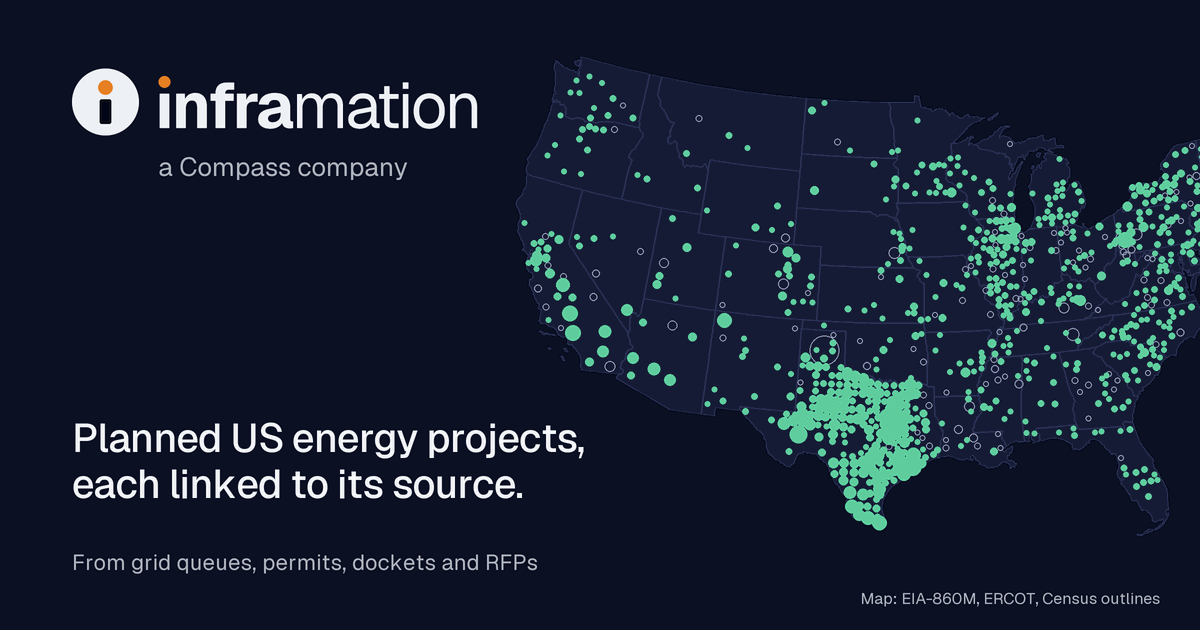
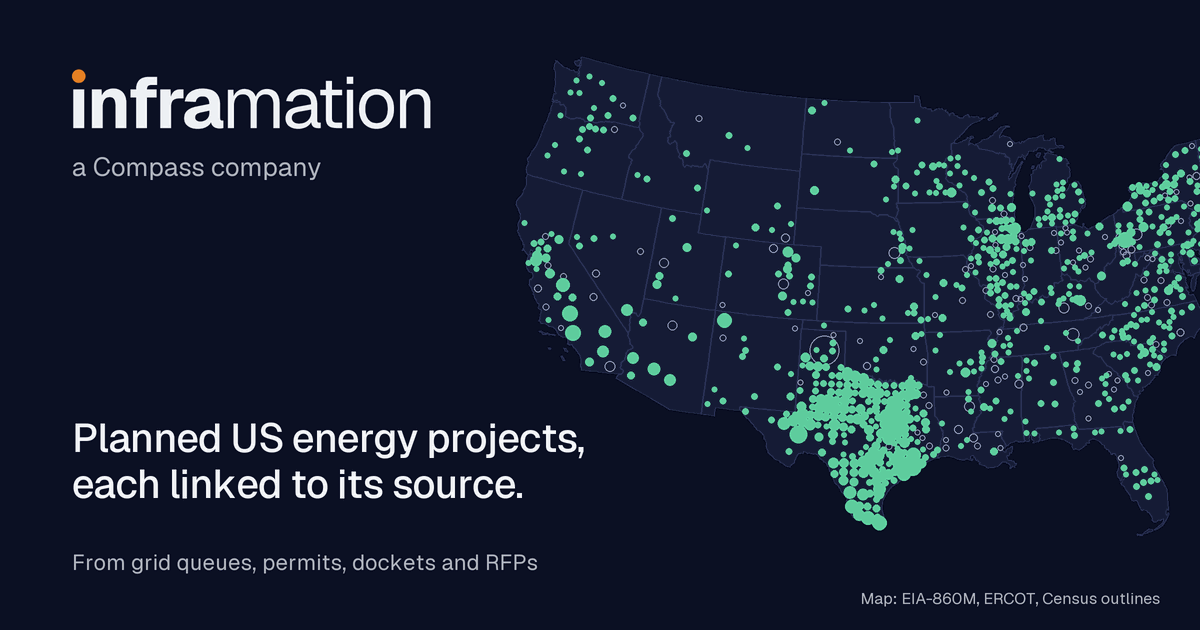
Brand: the circled-i mark is never beside the wordmark; the share card shows the wordmark alone
Owner: "make sure the circle I isn't next to the regular spelled out logo". The share card was
the one place that paired them; it now draws the wordmark alone, a little larger. docs/31 §5.1
and §5.4 state the rule, and web/test_og_card.py holds it: one orange dot on the whole card, and
the card's lockup draws no mark.

Claude-Session: https://claude.ai/code/session_01P1AoPFvzP8uUywKvt69JM9

Changed region(s): [[0.0617, 0.0905, 0.4008, 0.2111], [0.0617, 0.2413, 0.3392, 0.3016]]

diff --git a/web/og_card.py b/web/og_card.py
@@ -21,10 +21,10 @@ The mark (§5.1) is the information sign on a 16-unit grid: a circle of radius 8
 from y 7.35 to 13.25 with corner radius 0.5, and the orange dot at (8, 4.55), radius 1.75. On light the
 circle is navy and the stem white; on dark the circle is `#eef1f5` and the stem `#0e0f11`.
 
-The card is a navy field (a read surface, where Compass's navy may be a ground): the mark beside the
-wordmark, the endorsement, one line saying what the site is, where its records come from, and the national
-map of planned projects in the evergreen tint over faint state lines. It carries no live figure, because a
-cached card would show a stale number; the page's description carries them. Every text colour is at least
+The card is a navy field (a read surface, where Compass's navy may be a ground): the wordmark alone (the mark
+is never beside it), the endorsement, one line saying what the site is, where its records come from, and the
+national map of planned projects in the evergreen tint over faint state lines. It carries no live figure,
+because a cached card would show a stale number; the page's description carries them. Every text colour is at least
 4.5:1 on the navy (`web/test_og_card.py` recomputes it); the orange is the dot over the i only.
 
 The map's points (`--rebuild-map`) are the located active proposals of the committed fixture
@@ -440,17 +440,14 @@ def _circle_path(cx: float, cy: float, r: float) -> str:
 
 
 def _lockup(image: Image.Image, x: float, baseline: float, size: float) -> float:
-    """§5.1 and §5.4 on the navy card: the mark (its dark-ground colours) 1.05em across, centred on the
-    wordmark's ink, then 0.3em of space, then the wordmark from `wordmark.svg` in `MARK_LIGHT` with its
-    orange dot. `size` is the wordmark's em in card px. Returns the x where the wordmark's ink starts."""
+    """§5.1 and §5.4 on the navy card: the wordmark from `wordmark.svg` in `MARK_LIGHT` with its orange dot,
+    its ink starting at `x`. The mark is never drawn beside it (owner, 2026-10-24: the circled i is not
+    next to the spelled-out logo); the wordmark's own dot carries the i. `size` is the wordmark's em in
+    card px. Returns the x where the wordmark's ink starts."""
     word = read_wordmark(WORDMARK_PATH.read_text(encoding="utf-8"))
-    left, top, _, _ = word.bounds()
+    left, _, _, _ = word.bounds()
     scale = size * _SCALE / UNITS_PER_EM
-    across = 1.05 * size
-    centre_y = baseline + top / 2 * size / UNITS_PER_EM  # half-way up the ink, dot included
-    icon = mark(_s(across), circle=MARK_LIGHT, stem=MARK_DARK_STEM)
-    image.alpha_composite(icon, (_s(x), _s(centre_y - across / 2)))
-    word_x = x + across + 0.3 * size
+    word_x = x
     origin = (_s(word_x) - left * scale, _s(baseline))
     _fill_paths(image, [g.d for g in word.glyphs], origin, scale, MARK_LIGHT)
     _fill_paths(image, [_circle_path(*word.dot)], origin, scale, BRAND_DOT)
@@ -541,9 +538,9 @@ def render() -> Image.Image:
     """The card as an RGB image, `WIDTH` x `HEIGHT`."""
     image = Image.new("RGBA", (WIDTH * _SCALE, HEIGHT * _SCALE), NAVY)
     _draw_map(image)
-    # The lockup: the mark beside the wordmark, and under the wordmark the endorsement (text; the Compass
-    # logo is never drawn).
-    word_x = _lockup(image, _LEFT, 128, 64)
+    # The lockup: the wordmark alone (never the mark beside it), and under it the endorsement (text; the
+    # Compass logo is never drawn).
+    word_x = _lockup(image, _LEFT, 128, 72)
     draw = ImageDraw.Draw(image)
     draw.text((_s(word_x), _s(176)), "a Compass company", font=_font(26, 400), fill=MUTED, anchor="ls")
 

diff --git a/web/test_og_card.py b/web/test_og_card.py
@@ -6,8 +6,8 @@ Held in place:
     (so nobody can swap in an outside image or let the file drift from its source);
   - it is the brand system's navy card (docs/31-brand-identity.md §5.4): its text colours keep 4.5:1 on
     the navy, the orange is the dot over the i only, and copper is gone;
-  - its lockup is the information-sign mark beside the outlined wordmark (§5.1): both dots round and
-    centred on their stems, measured in the committed pixels;
+  - its lockup is the outlined wordmark alone, never the mark beside it (§5.1; owner, 2026-10-24): one
+    round dot, centred on its stem, measured in the committed pixels;
   - its map draws only sources whose register entry is reuse-open and published, and credits them;
   - `favicon.svg`, `favicon.ico` and `apple-touch-icon.png` are the §5.1 mark (a circle, the i's stem and
     the orange dot on a 16-unit grid), drawn by the script;
@@ -164,16 +164,26 @@ def _run_centre(image: Image.Image, y: int, near_x: float, colour: tuple[int, ..
     return (left + right) / 2
 
 
-def test_the_cards_dots_are_round_and_centred_on_their_stems() -> None:
-    """§5.1 and §5.4, in the committed pixels: the mark and the wordmark each carry one round orange dot
-    (no triangle), centred on the stem below it to within a pixel: the mark's stem is knocked out of its
-    light circle in near-black, the wordmark's is a light letter on the navy."""
+def test_the_cards_one_dot_is_round_and_centred_on_its_stem() -> None:
+    """§5.1 and §5.4, in the committed pixels: the wordmark's i carries one round orange dot (no triangle),
+    centred on the light stem below it to within a pixel."""
     with Image.open(og_card.OG_CARD_PATH) as card:
         rgb = card.convert("RGB")
-    mark_dot, word_dot = _blobs(rgb, (40, 30, 520, 200), ORANGE)
-    for points, stem in ((mark_dot, (14, 15, 17)), (word_dot, (238, 241, 245))):
-        centre, foot = _round_dot(points)
-        assert abs(_run_centre(rgb, foot + 12, centre, stem) - centre) <= 0.75
+    (word_dot,) = _blobs(rgb, (40, 30, 520, 200), ORANGE)
+    centre, foot = _round_dot(word_dot)
+    assert abs(_run_centre(rgb, foot + 12, centre, (238, 241, 245)) - centre) <= 0.75
+
+
+def test_the_mark_is_never_beside_the_wordmark_on_the_card() -> None:
+    """Owner, 2026-10-24: "make sure the circle I isn't next to the regular spelled out logo". The card
+    draws the wordmark alone: one orange dot on the whole card (the wordmark's), and no light disc the
+    size of the mark anywhere in the lockup's band."""
+    with Image.open(og_card.OG_CARD_PATH) as card:
+        rgb = card.convert("RGB")
+    assert len(_blobs(rgb, (0, 0, og_card.WIDTH, og_card.HEIGHT), ORANGE)) == 1
+    source = Path(og_card.__file__).read_text(encoding="utf-8")
+    lockup = source[source.index("def _lockup(") : source.index("# ----", source.index("def _lockup("))]
+    assert not re.search(r"\bmark\(", lockup), "the card's lockup must not draw the mark"
 
 
 def test_the_card_uses_only_the_self_hosted_fonts() -> None:

diff --git a/docs/CHANGELOG.md b/docs/CHANGELOG.md
@@ -445,3 +445,4 @@
 - 2026-10-24 frontend developer (lane w2a-glue; V3 record tabs and V7 search-about integrated, docs/30 §11.3, §11.10): `site.js` moves `/about#sources` and nine old `/methodology` anchors (and the `#note-`, `#asset-sources-` and `#state-` families) to their new pages, every row only to a page the one it is on links; the sitemap lists `/about/sources`, `/methodology/gaps`, `/methodology/status-words` and `/glossary` unconditionally; Glossary joins the About bar; the footer's Sources & licences link points at `/about/sources`; `web/record_tabs.py` takes its glossary anchors from `web.glossary.RECORD_PAGE_ANCHORS`, with a test that every glossary link a record tab prints is an id `/glossary` renders; V3's sitemap test read `/about/sources` as a record tab and is anchored on the record paths. Words above the fold at 1440x900 and 390x844: `/glossary` 358 to 379 and 146 to 143 (the About bar), `/about` 216 to 217 and 134 to 135, a project Overview unchanged (182, 128). Glossary in the footer and the phone Menu waits for the brand lane's `base.html` and `partials/_top_bar.html`.
 - 2026-10-24 coordinator: `docs/66` gains the weekend run sheet (evening: slow replies; morning: instant items) with every link and what to send back, and rows 19 to 23 (Our Grid Future, IEA CCUS, Arizona DEQ and Argonne terms read in a browser; the SPP and ISO-NE permission requests).
 - 2026-10-24 frontend (lane brand-build, with its review round; `docs/31-brand-identity.md` §5.1 and §7): applied rows T-1 to T-4, B-1 to B-5, C-1 to C-4, C-6, C-7, M-1 and M-2 (C-5 and M-3 stay with the record-tabs and V2 lanes). The tokens are §4's light and dark columns: navy `#0b1023` ink on a `#eef1f5` ground, evergreen `#1d7356` as the one data hue, Compass orange `#e68023` only as `--brand-dot` (the dot over the i), `--wordmark-ink` (`#eef1f5` on dark), and a true-neutral dark; the copper names stay as aliases for one release. Geist and Geist Mono 1.7.2 (SIL OFL 1.1) are self-hosted as Latin and Latin-extended woff2 subsets: 4 files and 101,056 bytes replace 23 Plex and Newsreader files (431,272 bytes), and one 33,404-byte preload replaces three (93,924), with metric-matched "Geist Fallback" faces. The wordmark is the owner's variant A, outlined: "infra" Geist 700 and "mation" Geist 400 at -0.03em, cut from the shipped Geist file by `web/og_card.py` `build_wordmark` (fontTools, skia-pathops, HarfBuzz; not site dependencies) into `web/static/img/wordmark.svg` and inlined in the top bar, its round orange dot 1.25 times the bold stem's width and centred on the stem as measured from the outline (dot offset 0.0000px in Chromium at 16, 23, 32 and 180px, light and dark); the lockup's name is "Inframation, a Compass company" and the footer opens with the endorsement. The mark is the information sign (navy circle, white stem, orange dot; on dark a `#eef1f5` circle and a `#0e0f11` stem) in `favicon.svg`, `favicon.ico`, `apple-touch-icon.png` (on the `#eef1f5` ground) and beside the wordmark on the share card `og-card-2.png` (navy, Geist, active projects by county from reuse-open published sources only, credited on the card; never served before, so the name stands); no needle, pointer or triangle remains. Labels are sentence case at 13px/500 in the text face; no resting shadows; the primary button is ink and the secondary grey; links are ink with a 0.07em underline. Map markers scale by area and hold their size on zoom; context marks and lines draw at 24% (light) or 32% (dark) and 0.75-1.5px, and their labels at full strength, where all twenty plant and asset colours keep 4.5:1 on the land (the first cut's 55% / 60% measured 2.18-4.40:1). Taste gates, HEAD to now: `inspect.mjs --app` home 2 FAIL/3 WARN to 0/0, list 1/2 to 0/0, record 1/4 to 0/0; `lint.mjs` (121 files) app 6/70 to 6/39 (the 6 are the section bar's mask gradients, unchanged) and page 132/45 to 101/43. `web/test_brand.py` and `web/test_og_card.py` pin the tokens, the outlines against Geist at each weight, the dot's centring (in the SVG and in Chromium), the mark's grid, the card's round centred dots and the label contrast.
+- 2026-10-24 coordinator (owner: "make sure the circle I isn't next to the regular spelled out logo"): the share card shows the wordmark alone (72px em, was the mark beside a 64px wordmark); docs/31-brand-identity.md §5.1 and §5.4 say the mark is never beside the wordmark; web/test_og_card.py holds it; PLAN row.

diff --git a/docs/31-brand-identity.md b/docs/31-brand-identity.md
@@ -191,8 +191,10 @@ zoom^-0.8.
   orange round dot (owner, 2026-10-23: "do the circle around the i for the logos, for information"). Light: a navy
   `#0b1023` circle, white stem, orange `#e68023` dot. Dark: a `#eef1f5` circle, `#0e0f11` stem, the same orange dot.
   Geometry on a 16-unit grid: circle radius 8; dot centre (8, 4.55), radius 1.75; stem 2.8 wide from y 7.35 to 13.25,
-  corner radius 0.5. Legible at 16px. Where it appears: favicon, app icon, social profile images, and the share card
-  beside the wordmark. Not in the top bar: there the wordmark's own orange dot already carries the i, and a second
+  corner radius 0.5. Legible at 16px. Where it appears: favicon, app icon and social profile images, always on its own.
+  **Never beside the wordmark** (owner, 2026-10-24: "make sure the circle I isn't next to the regular spelled out
+  logo"): the mark stands in for the wordmark where a space is square or too small for the word, and the two are
+  never shown side by side, on the share card included. Not in the top bar: there the wordmark's own orange dot already carries the i, and a second
   orange dot beside it doubles the accent. Never inside the word (a circled i in the wordmark reads as an "info"
   button and breaks the word). In the product UI an information control is labelled in words, never with an i glyph.
 - **Lockup.** The wordmark, then "a Compass company" in Geist 500, `--text-muted`, at 0.58 of the wordmark's size. It
@@ -227,8 +229,8 @@ zoom^-0.8.
 ### 5.4 Share card
 
 The card is 1200x630 on a navy field, a read surface, where navy may be a ground. It carries:
-- the mark beside the wordmark, in their dark-ground colours (`#eef1f5` letters and circle, the orange dot), and
-  the endorsement under the wordmark;
+- the wordmark alone, in its dark-ground colours (`#eef1f5` letters, the orange dot), never the mark beside it
+  (§5.1), and the endorsement under the wordmark;
 - the line "Planned US energy projects, each linked to its source.";
 - "From grid queues, permits, dockets and RFPs";
 - the national project map in `#5fcf9f` over faint grey context.

diff --git a/docs/00-PLAN.md b/docs/00-PLAN.md
@@ -265,6 +265,7 @@ workflow be a later consideration only. The graph, feed, tiers and distribution 
 | 2026-10-23 | **Every data-room view, download, upload, refusal, delete and folder change goes to an access log that only the item's owner reads.** Views are coalesced per member and folder over ten minutes. Nothing from the log reaches `event`, the admin audit log, analytics or an application log. | docs/19 §12.6; CLAUDE.md private-data guardrail. |
 | 2026-10-23 | **Deleting a data-room file, folder, item or account removes its objects once the root transaction commits; the retention job sweeps orphans after 6 hours.** A savepoint release decides nothing and a savepoint rollback forgets its deletes. An account erasure deletes everything in the items the user owns, and anonymises their files and log lines elsewhere as "Former member". | docs/19 §12.7; review of 2026-10-23 (savepoint release had removed files whose rows a later rollback restored). |
 | 2026-10-23 | **Data rooms stay behind two switches, both off by default (`DATA_ROOMS=on` and `MY_PIPELINE=on`). Off, every API route, including the upload's length check, is the unknown-project 404 and every page is the unknown-address 404.** | docs/19 §12; review of 2026-10-23, finding 2 (the length check had answered a 400 that named the upload). |
+| 2026-10-24 | **The circled-i mark is never shown beside the wordmark** (owner: "make sure the circle I isn't next to the regular spelled out logo"). The mark stands alone where a space is square or too small for the word (favicon, app icon, social avatars); everywhere else the wordmark stands alone, its orange dot carrying the i. The share card, the one place that paired them, now shows the wordmark alone (larger, 72px em); `web/test_og_card.py` holds it (one orange dot on the card; the card's lockup draws no mark). | `docs/31-brand-identity.md` §5.1, §5.4 |
 
 ## Sprint 3 kickoff — read this first in the fresh session
 
